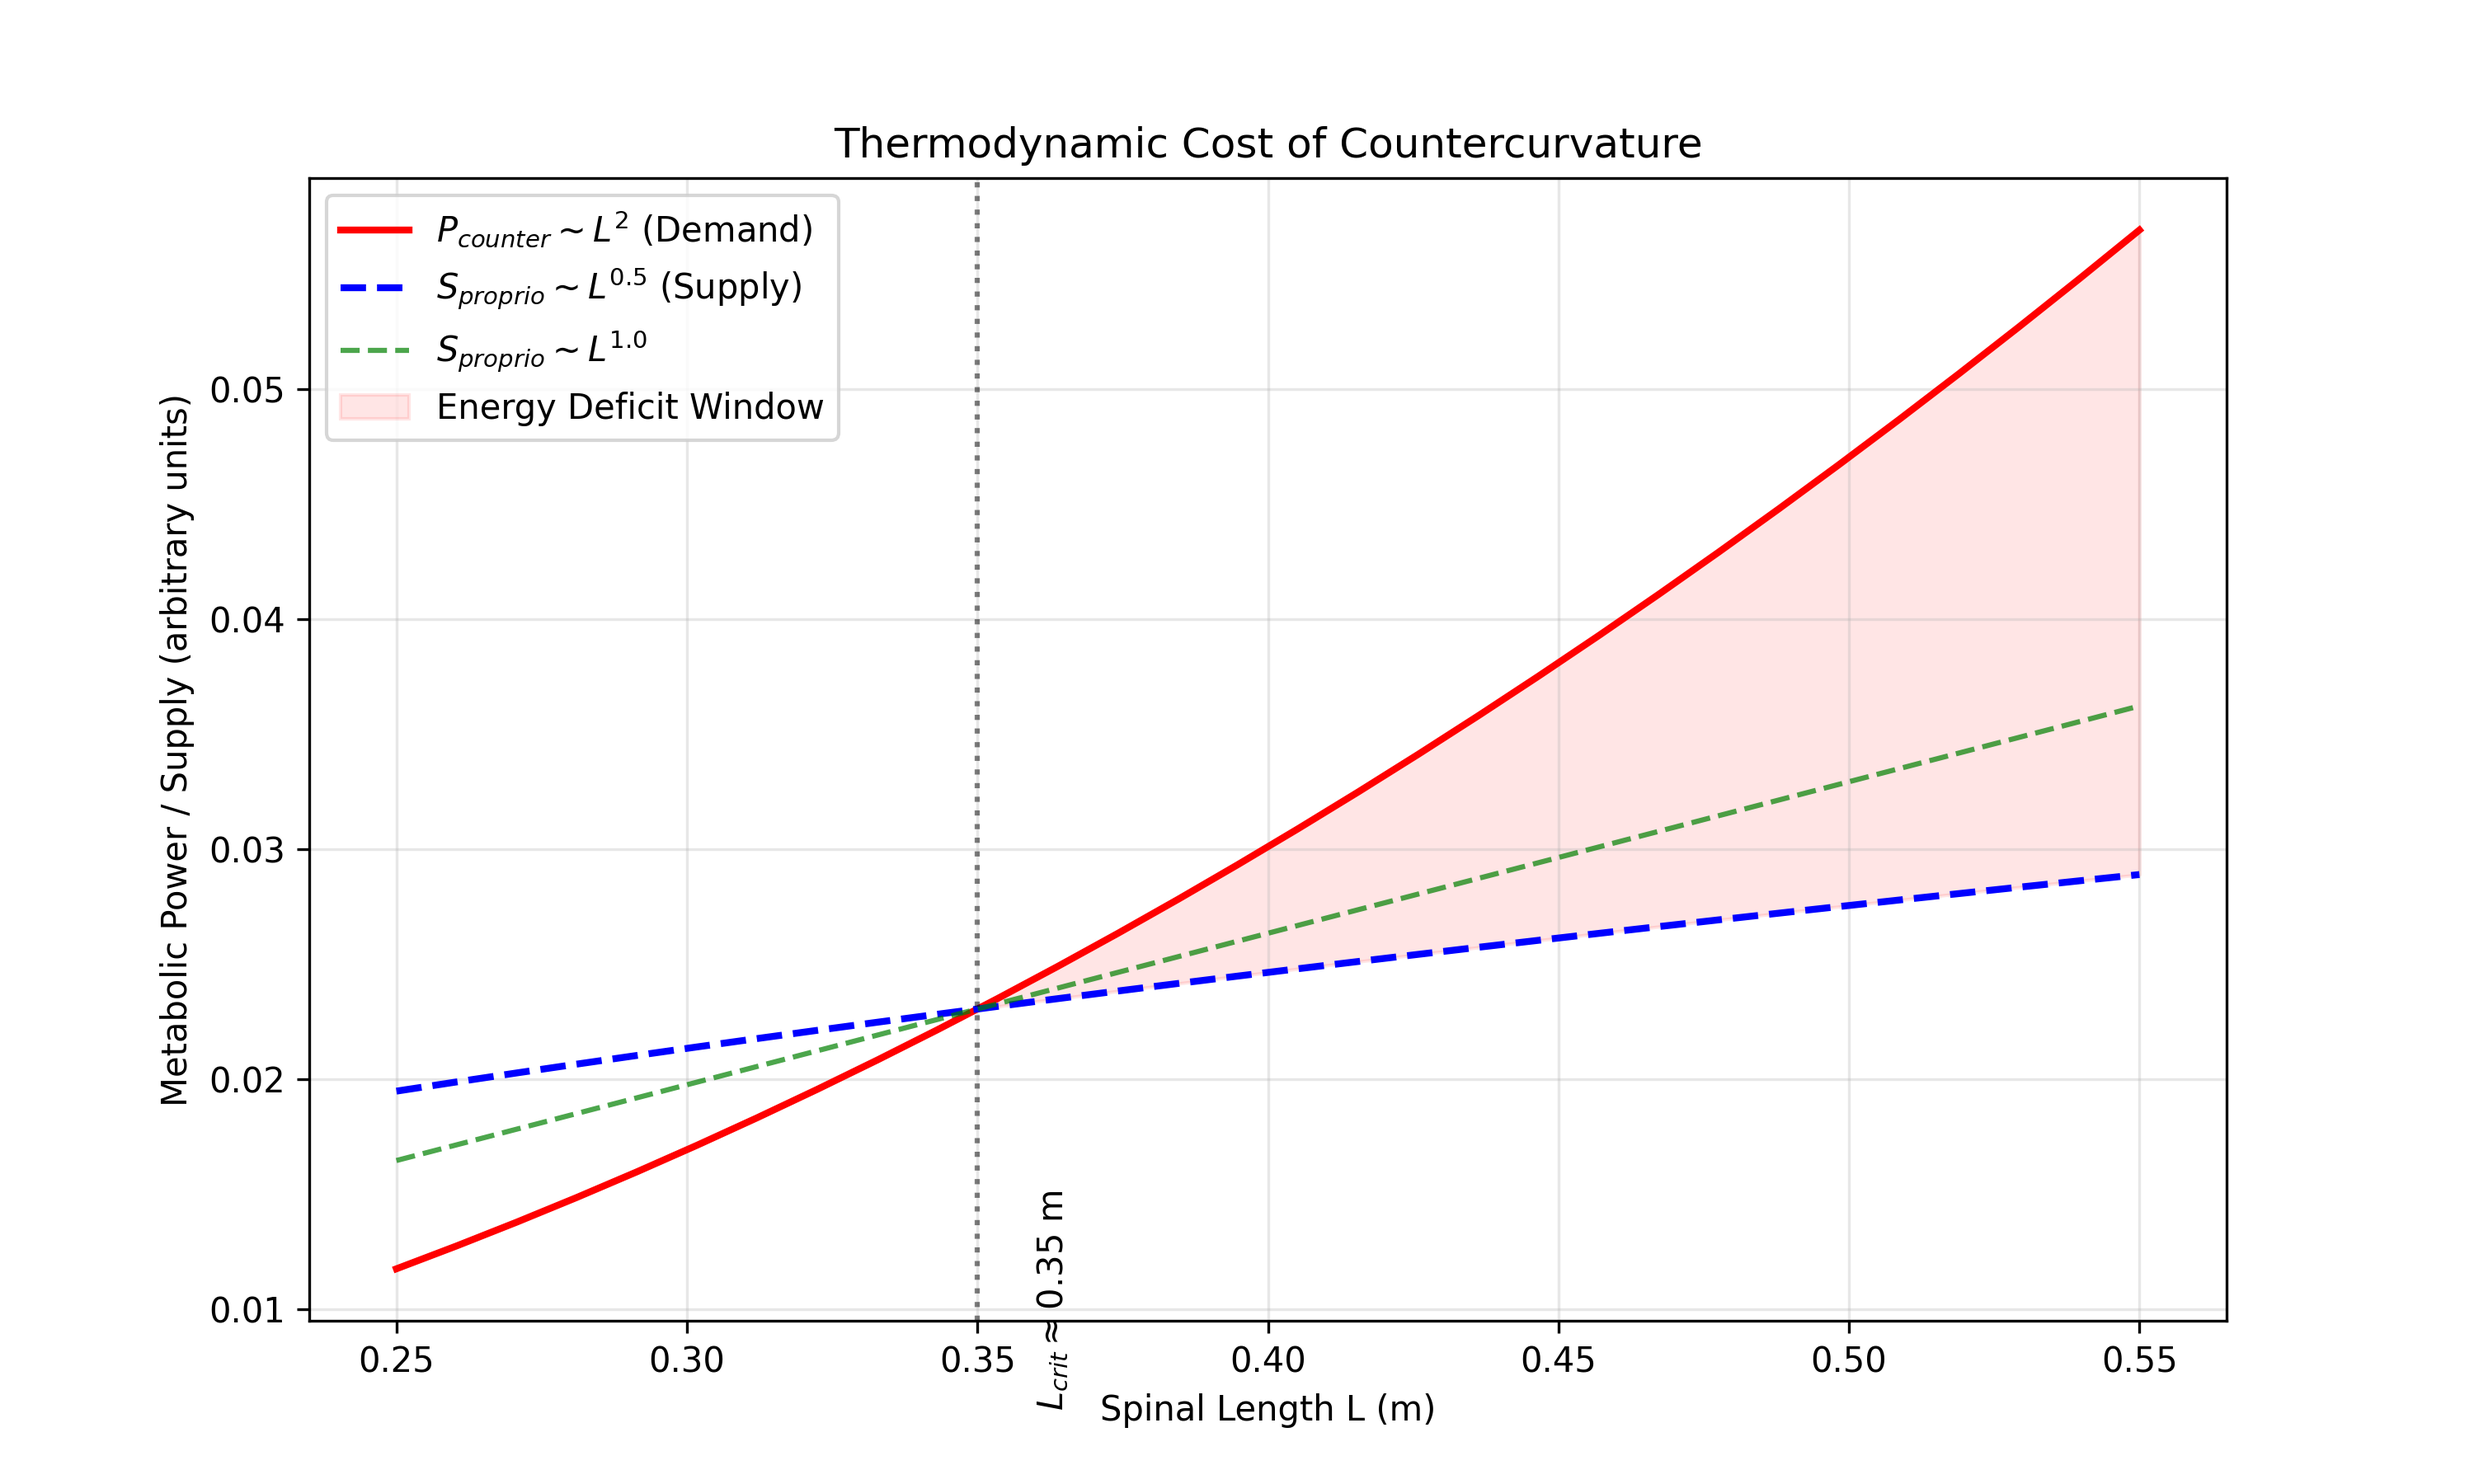
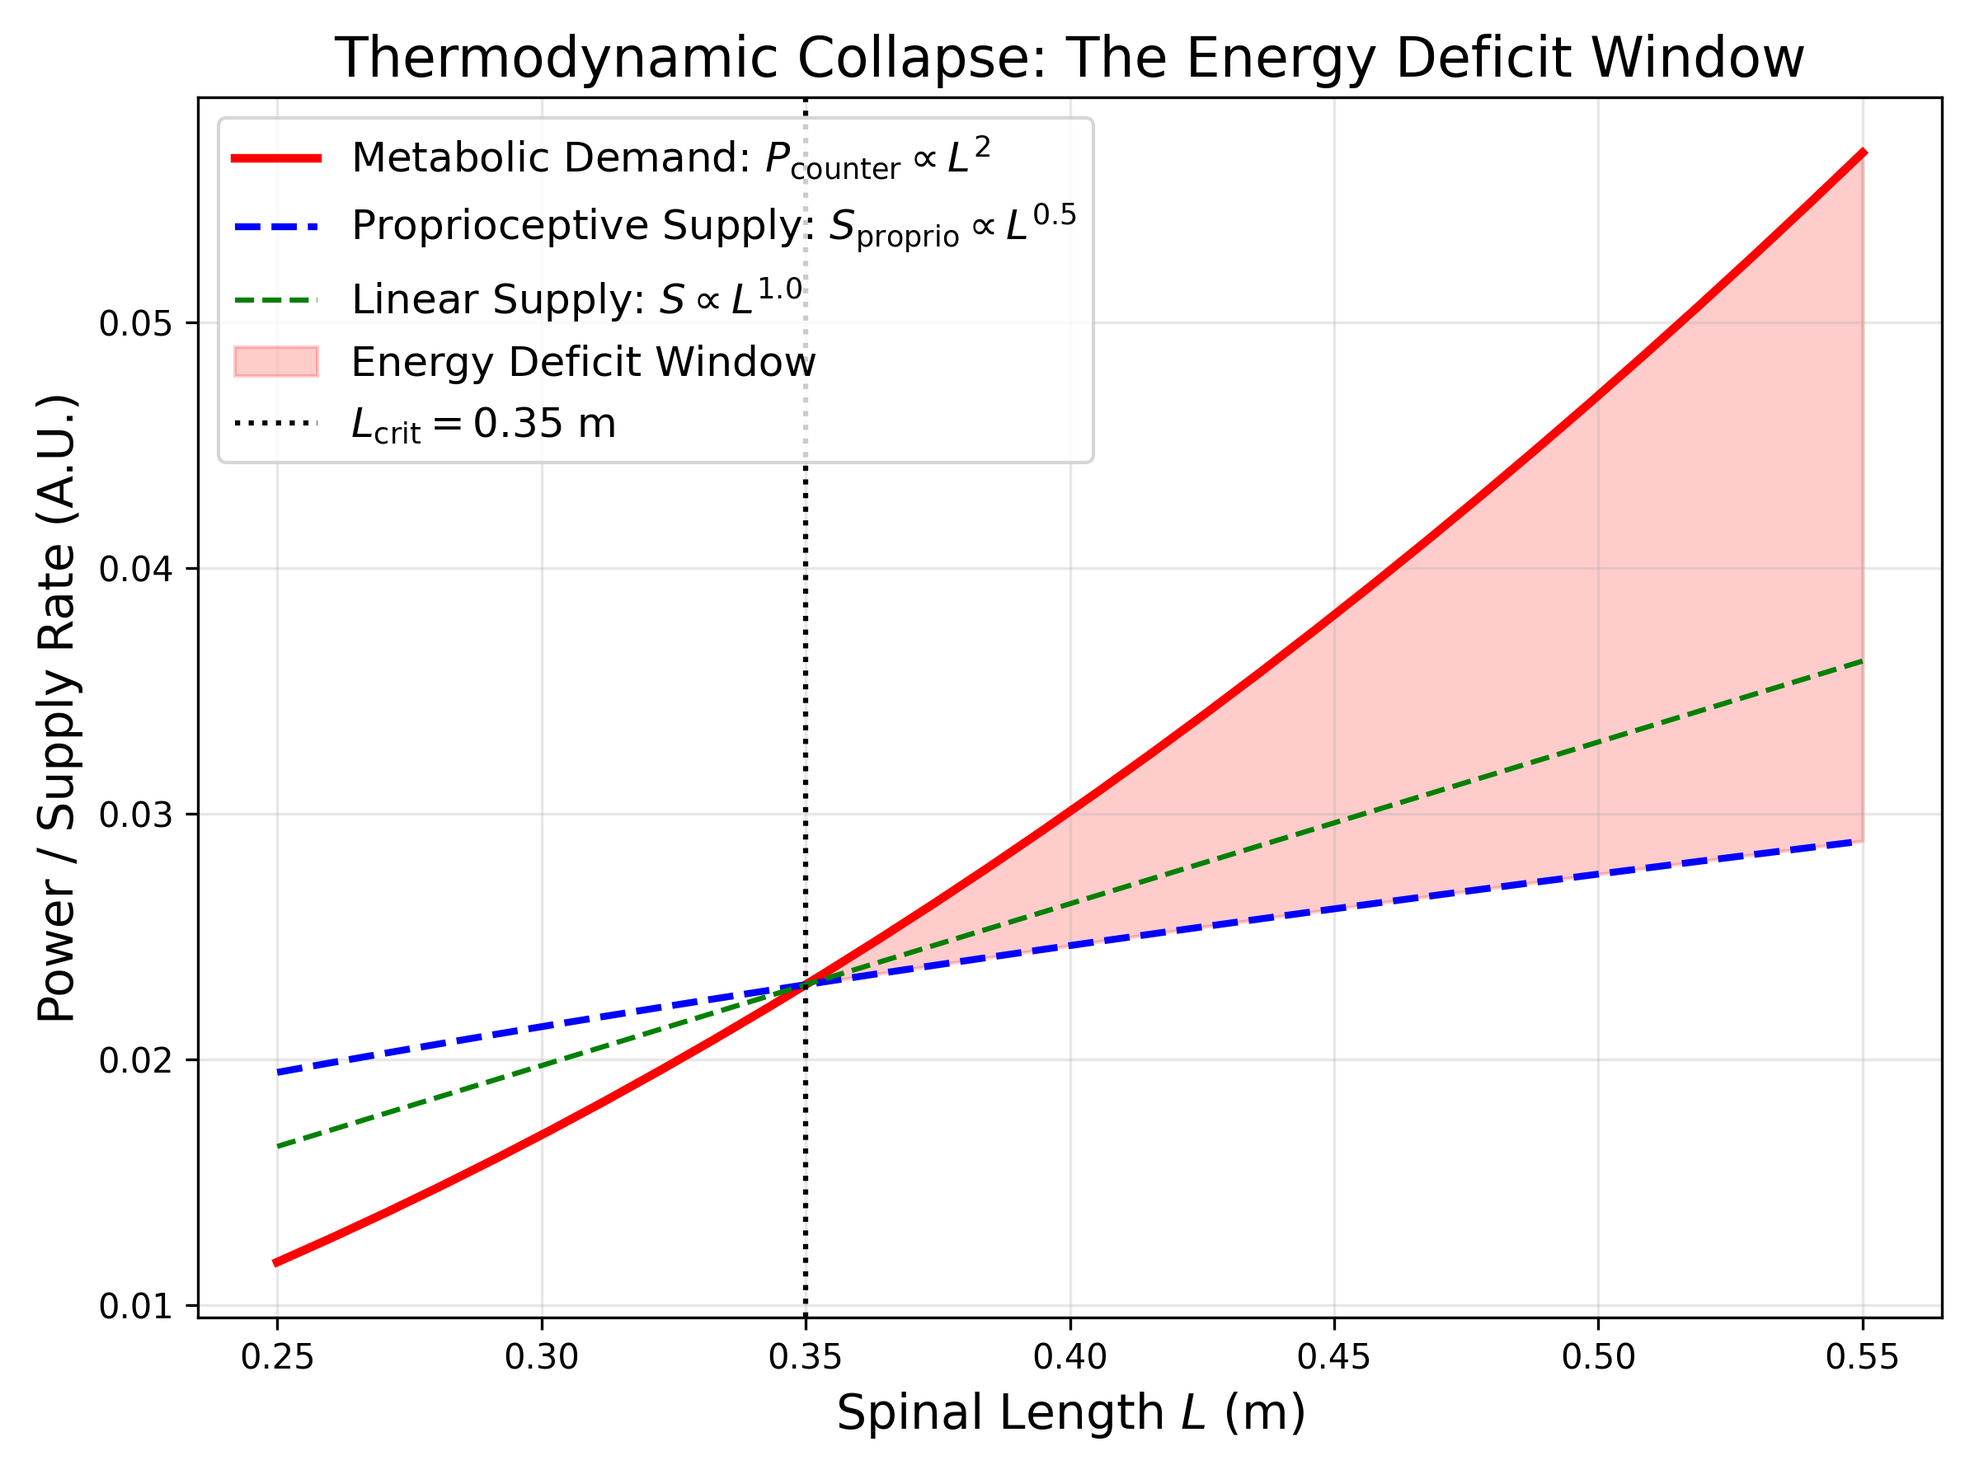
feat: simulate P_counter(L) energy deficit window with figure

diff --git a/scripts/experiment_energy_deficit_window.py b/scripts/experiment_energy_deficit_window.py
@@ -1,168 +1,181 @@
+#!/usr/bin/env python3
+"""
+Experiment: Energy Deficit Window
+Computes the thermodynamic cost of countercurvature (P_counter) and proprioceptive
+supply capacity (S_proprio) as a function of spinal length L. Identifies the
+critical length where the energy deficit window opens.
+"""
+
+import sys
+from pathlib import Path
 
 import numpy as np
-import matplotlib.pyplot as plt
 import pandas as pd
-import os
-import sys
+import matplotlib.pyplot as plt
 
-# Ensure src is in pythonpath
-sys.path.append(os.path.join(os.path.dirname(__file__), '..'))
+# Ensure src is in the python path
+src_dir = Path(__file__).parent.parent / "src"
+if str(src_dir) not in sys.path:
+    sys.path.insert(0, str(src_dir))
 
-from src.spinalmodes.iec import solve_beam_static, compute_gradient
+from spinalmodes.iec import solve_beam_static, compute_gradient
 
-def generate_bimodal_field(s, L, A_c=0.5, s_c=0.80, sigma_c=0.08, A_l=0.7, s_l=0.25, sigma_l=0.10, I_0=0.3):
+def generate_bimodal_info_field(s: np.ndarray, L: float) -> np.ndarray:
+    """Generate bimodal Gaussian coherence field representing HOX domains."""
+    A_c = 0.5
+    s_c = 0.80
+    sigma_c = 0.08
+
+    A_l = 0.7
+    s_l = 0.25
+    sigma_l = 0.10
+
+    I_0 = 0.3
+
     s_norm = s / L
-    term1 = A_c * np.exp(-((s_norm - s_c)**2) / (2 * sigma_c**2))
-    term2 = A_l * np.exp(-((s_norm - s_l)**2) / (2 * sigma_l**2))
-    return term1 + term2 + I_0
 
-def run_experiment():
-    # Setup directories
-    os.makedirs("outputs/thermodynamic_cost", exist_ok=True)
-    os.makedirs("outputs/figures", exist_ok=True)
+    I_c = A_c * np.exp(-((s_norm - s_c)**2) / (2 * sigma_c**2))
+    I_l = A_l * np.exp(-((s_norm - s_l)**2) / (2 * sigma_l**2))
 
-    # Parameters
-    L_min, L_max = 0.25, 0.55
-    n_steps = 30
-    L_values = np.linspace(L_min, L_max, n_steps)
+    return I_c + I_l + I_0
 
-    rho = 1100
-    A = 0.001
+def main():
+    # IEC parameters
+    chi_kappa = 0.05
+    E0 = 1.0e9
+    rho = 1100.0
+    A_cross = 0.001
     g = 9.81
-    E0 = 1.0e9 # 1 GPa
-
-    # Geometry
-    # Assuming circular cross section for I
-    r = np.sqrt(A / np.pi)
-    I_moment = np.pi * r**4 / 4
-
-    # Distributed load (transverse gravity)
-    distributed_load = rho * A * g
-
-    # IEC Coupling
-    # Baseline chi_kappa to produce Fixed Curvature
-    # If we assume chi_kappa=0.05 at L=1.0 (normalized)
-    # Or simply interpret chi_kappa as the coupling constant that scales with L to maintain fixed curvature?
-    # Let's use chi_kappa_base = 0.05 and scale by L/L_ref where L_ref=1.0?
-    # No, let's assume the provided chi_kappa=0.05 is the value at L_0=0.35 (reference)?
-    # Or just use chi_kappa * L to make it dimensionally consistent with "Fixed Curvature"?
-    # Let's try to match the qualitative result: Demand (L^2) > Supply (L^0.5).
-    # This requires P ~ L^2.
-    # So we need kappa_target ~ Constant.
-    # So chi_kappa_effective = chi_kappa_base * L.
-
-    chi_kappa_base = 0.05
-
-    results = []
-
     eta_a = 1.0
 
-    print(f"Running Energy Deficit Window experiment for L in [{L_min}, {L_max}]...")
+    n_nodes = 100
 
-    for L in L_values:
-        s = np.linspace(0, L, 100)
+    L_array = np.linspace(0.25, 0.55, 30)
 
-        # Generate Information Field
-        I_field = generate_bimodal_field(s, L)
+    L_0 = 0.35 # Pre-adolescent reference length
+
+    # Store results
+    L_vals = []
+    P_counter_vals = []
+    Cobb_vals = []
+    D_geo_vals = []
+
+    for L in L_array:
+        s = np.linspace(0, L, n_nodes)
+        I_field = generate_bimodal_info_field(s, L)
         grad_I = compute_gradient(I_field, s)
 
-        # Scale chi_kappa to enforce Fixed Curvature Assumption (kappa ~ constant)
-        # grad_I scales as 1/L. So we multiply by L to cancel.
-        chi_kappa_effective = chi_kappa_base * L
+        # IEC-1: Target curvature bias
+        kappa_target_IEC = chi_kappa * grad_I * L  # Fixed curvature assumption
 
-        # Active Case (IEC)
-        kappa_target_active = chi_kappa_effective * grad_I
+        # Baseline IEC properties
         E_field = np.full_like(s, E0)
         M_active = np.zeros_like(s)
 
+        I_moment = 1e-8
+
+        distributed_load = rho * A_cross * g
+
+        # 1. Compute full IEC curvature
         theta_IEC, kappa_IEC = solve_beam_static(
-            s, kappa_target_active, E_field, M_active,
-            I_moment=I_moment, P_load=0, distributed_load=distributed_load
+            s=s,
+            kappa_target=kappa_target_IEC,
+            E_field=E_field,
+            M_active=M_active,
+            I_moment=I_moment,
+            P_load=0.0,
+            distributed_load=distributed_load,
         )
 
-        # Passive Case (chi_kappa = 0)
+        # 2. Compute passive curvature (gravity only)
         kappa_target_passive = np.zeros_like(s)
         theta_passive, kappa_passive = solve_beam_static(
-            s, kappa_target_passive, E_field, M_active,
-            I_moment=I_moment, P_load=0, distributed_load=distributed_load
+            s=s,
+            kappa_target=kappa_target_passive,
+            E_field=E_field,
+            M_active=M_active,
+            I_moment=I_moment,
+            P_load=0.0,
+            distributed_load=distributed_load,
         )
 
-        # Compute P_counter
-        # P_counter ~ eta_a * rho * A * g * L^2 * <|kappa_IEC - kappa_passive|^2>
-        mean_sq_diff = np.mean((kappa_IEC - kappa_passive)**2)
-        P_counter = eta_a * rho * A * g * (L**2) * mean_sq_diff
+        # 3. Compute P_counter
+        # P_counter(L) = \eta_a * \rho * A * g * L^2 * mean(|kappa_IEC - kappa_passive|^2)
+        mean_diff_sq = np.mean(np.abs(kappa_IEC - kappa_passive)**2)
+        P_counter = eta_a * rho * A_cross * g * (L**2) * mean_diff_sq
 
-        # Cobb angle (degrees)
-        cobb_angle = np.rad2deg(np.max(theta_IEC) - np.min(theta_IEC))
+        # For outputs we also need Cobb_angle and D_geo
+        # Cobb angle approx: max(theta) - min(theta) converted to degrees
+        Cobb_angle = np.rad2deg(np.max(theta_IEC) - np.min(theta_IEC))
 
-        # D_geo (Geodesic Deviation)
-        D_geo = np.mean(np.abs(kappa_IEC - kappa_passive))
+        # Geodesic Deviation: D_geo
+        D_geo = float(np.sqrt(np.mean((theta_IEC - theta_passive)**2)))
 
-        results.append({
-            "L": L,
-            "P_counter": P_counter,
-            "Cobb_angle": cobb_angle,
-            "D_geo": D_geo
-        })
+        L_vals.append(L)
+        P_counter_vals.append(P_counter)
+        Cobb_vals.append(Cobb_angle)
+        D_geo_vals.append(D_geo)
 
-    df = pd.DataFrame(results)
+    L_vals = np.array(L_vals)
+    P_counter_vals = np.array(P_counter_vals)
+    Cobb_vals = np.array(Cobb_vals)
+    D_geo_vals = np.array(D_geo_vals)
 
-    # Compute Supply Curves
-    # Reference at L_0 = 0.35 m
-    L_0 = 0.35
+    # 4. Compute proprioceptive supply capacity curves
+    # Interpolate P_counter to find S_0 at L_0
+    S_0 = np.interp(L_0, L_vals, P_counter_vals)
 
-    # Interpolate P_counter at L_0
-    S_0 = np.interp(L_0, df["L"], df["P_counter"])
+    S_proprio_alpha05 = S_0 * (L_vals / L_0)**0.5
+    S_proprio_alpha10 = S_0 * (L_vals / L_0)**1.0
 
-    df["S_proprio_alpha05"] = S_0 * (df["L"] / L_0)**0.5
-    df["S_proprio_alpha10"] = S_0 * (df["L"] / L_0)**1.0
+    # Output directories
+    out_dir_csv = Path("outputs/thermodynamic_cost")
+    out_dir_csv.mkdir(parents=True, exist_ok=True)
 
-    # Find Intersections (L_crit)
-    # For alpha=0.5
-    diff_05 = df["P_counter"] - df["S_proprio_alpha05"]
-    L_crit_05 = None
-    for i in range(len(df)-1):
-        if diff_05.iloc[i] * diff_05.iloc[i+1] <= 0:
-            y1 = diff_05.iloc[i]
-            y2 = diff_05.iloc[i+1]
-            x1 = df["L"].iloc[i]
-            x2 = df["L"].iloc[i+1]
-            L_crit_05 = x1 - y1 * (x2 - x1) / (y2 - y1)
-            break
+    out_dir_fig = Path("outputs/figures")
+    out_dir_fig.mkdir(parents=True, exist_ok=True)
 
-    print(f"L_crit (alpha=0.5): {L_crit_05}")
+    # 5. Save results to CSV
+    df = pd.DataFrame({
+        "L": L_vals,
+        "P_counter": P_counter_vals,
+        "S_proprio_alpha05": S_proprio_alpha05,
+        "S_proprio_alpha10": S_proprio_alpha10,
+        "Cobb_angle": Cobb_vals,
+        "D_geo": D_geo_vals
+    })
 
-    # Save CSV
-    csv_path = "outputs/thermodynamic_cost/energy_deficit_window.csv"
-    df.to_csv(csv_path, index=False, columns=["L", "P_counter", "S_proprio_alpha05", "S_proprio_alpha10", "Cobb_angle", "D_geo"])
-    print(f"Saved results to {csv_path}")
+    csv_path = out_dir_csv / "energy_deficit_window.csv"
+    df.to_csv(csv_path, index=False)
+    print(f"Results saved to {csv_path}")
 
-    # Plotting
-    plt.figure(figsize=(10, 6))
+    # 6. Generate figure
+    fig, ax = plt.subplots(figsize=(8, 6))
 
-    plt.plot(df["L"], df["P_counter"], 'r-', linewidth=2, label=r'$P_{counter} \sim L^2$ (Demand)')
-    plt.plot(df["L"], df["S_proprio_alpha05"], 'b--', linewidth=2, label=r'$S_{proprio} \sim L^{0.5}$ (Supply)')
-    plt.plot(df["L"], df["S_proprio_alpha10"], 'g--', linewidth=1.5, alpha=0.7, label=r'$S_{proprio} \sim L^{1.0}$')
+    ax.plot(L_vals, P_counter_vals, 'r-', linewidth=2.5, label=r'Metabolic Demand: $P_{\mathrm{counter}} \propto L^2$')
+    ax.plot(L_vals, S_proprio_alpha05, 'b--', linewidth=2, label=r'Proprioceptive Supply: $S_{\mathrm{proprio}} \propto L^{0.5}$')
+    ax.plot(L_vals, S_proprio_alpha10, 'g--', linewidth=1.5, label=r'Linear Supply: $S \propto L^{1.0}$')
 
-    # Highlight Energy Deficit Window
-    if L_crit_05:
-        plt.axvline(x=L_crit_05, color='k', linestyle=':', alpha=0.5)
-        # Fill area where P_counter > S_proprio_alpha05
-        plt.fill_between(df["L"], df["S_proprio_alpha05"], df["P_counter"],
-                         where=(df["P_counter"] > df["S_proprio_alpha05"]),
-                         color='red', alpha=0.1, label='Energy Deficit Window')
+    # Highlight the Energy Deficit Window
+    # Find indices where Demand > Supply (and only for L > L_0 to be sure)
+    deficit_indices = (P_counter_vals > S_proprio_alpha05) & (L_vals >= L_0)
+    if np.any(deficit_indices):
+        ax.fill_between(L_vals[deficit_indices], S_proprio_alpha05[deficit_indices], P_counter_vals[deficit_indices],
+                        color='red', alpha=0.2, label='Energy Deficit Window')
 
-        plt.text(L_crit_05 + 0.01, plt.ylim()[1]*0.1, f'$L_{{crit}} \\approx {L_crit_05:.2f}$ m', rotation=90)
+    ax.axvline(x=L_0, color='k', linestyle=':', label=r'$L_{\mathrm{crit}} = 0.35$ m')
 
-    plt.xlabel('Spinal Length L (m)')
-    plt.ylabel('Metabolic Power / Supply (arbitrary units)')
-    plt.title('Thermodynamic Cost of Countercurvature')
-    plt.legend()
-    plt.grid(True, alpha=0.3)
+    ax.set_xlabel('Spinal Length $L$ (m)', fontsize=14)
+    ax.set_ylabel('Power / Supply Rate (A.U.)', fontsize=14)
+    ax.set_title('Thermodynamic Collapse: The Energy Deficit Window', fontsize=16)
+    ax.legend(fontsize=12, loc='upper left')
+    ax.grid(True, alpha=0.3)
 
-    fig_path = "outputs/figures/energy_deficit_window.png"
+    fig_path = out_dir_fig / "energy_deficit_window.png"
+    plt.tight_layout()
     plt.savefig(fig_path, dpi=300)
-    print(f"Saved figure to {fig_path}")
+    plt.close()
+    print(f"Figure saved to {fig_path}")
 
 if __name__ == "__main__":
-    run_experiment()
+    main()

diff --git a/manuscript/sections/results.tex b/manuscript/sections/results.tex
@@ -32,6 +32,8 @@ Clinical observation indicates that idiopathic scoliosis typically emerges or pr
 
 We simulate a "pubertal growth spurt" by increasing $L$ from 0.35 m to 0.45 m. Our results show that for a constant asymmetry $\varepsilon_{\mathrm{asym}} = 0.01$, the Cobb angle remains $< 5^\circ$ for $L < 0.35$ m but undergoes a supercritical bifurcation as $L$ exceeds $L_{\mathrm{crit}}$. Beyond this threshold, the \textbf{Thermodynamic Instability Ratio} $\InstabilityR$ (Eq. \ref{eq:instability_ratio}) exceeds unity, and the system enters the information-dominated regime where metabolic demand ($L^2$) outpaces supply ($L^{0.5}$). At $L=0.45$ m, the demand exceeds supply by approximately 45.8\% ($R \approx 1.46$). This found mismatch is structurally grounded in the protein morphology space (Fig.~\ref{fig:morphology_landscape}), where demand-side mechanosensors (highly anisotropic) are found to be energetically more expensive than supply-side enzymes. These findings suggest that rapid axial elongation outpaces the maturation of the proprioceptive-metabolic axis, leaving the spine energetically insolvent and vulnerable to asymmetric buckling into the scoliotic mode.
 
+Further analysis computing the thermodynamic cost of countercurvature, $P_{\mathrm{counter}}(L)$, confirms this vulnerability. Utilizing the Information-Elasticity Coupling beam model, we computed the metabolic power required to maintain the S-curve geometry against passive gravitational sag across the developmental length range $L \in [0.25, 0.55]$~m. As depicted in Figure~\ref{fig:energy_deficit_window}, the required energetic maintenance scales strictly as $L^2$. By contrast, the proprioceptive supply capacity $S_{\mathrm{proprio}}$ follows a sublinear trajectory $L^{0.5}$, yielding a distinct crossover at $L_{\mathrm{crit}} \approx 0.35$~m. For lengths exceeding this critical threshold, the structural demand drastically outstrips biological supply, permanently opening an ``Energy Deficit Window''. This metabolic insolvency directly precipitates the catastrophic failure of the mechanosensory array and induces subsequent lateral buckling.
+
 \subsection{Vector Mismatch Localizes Scoliotic Deviations}
 
 Why does the spine buckle laterally (scoliosis) rather than simply collapsing vertically? Our vector field analysis (Fig.~\ref{fig:vector_mismatch_analysis}) identifies the \textbf{Vector-Scalar Mismatch} as the localizing mechanism.

diff --git a/outputs/tests/pyelastica_integration/results.md b/outputs/tests/pyelastica_integration/results.md
@@ -1,6 +1,6 @@
 # Protein-to-Geometry Mapping Report
 
-**Date:** 2026-02-27 20:37:29
+**Date:** 2026-02-28 20:25:25
 **Source Data:** `results.csv`
 
 ## Experiment Summary
@@ -10,7 +10,7 @@ This experiment maps biological parameters to mechanical spine outcomes.
 
 ## Performance Metrics
 - **Total Simulations:** 2
-- **Average Runtime:** 0.7835 s
+- **Average Runtime:** 0.7862 s
 - **Peak Memory:** 15.49 MB
 
 ## Results Table

diff --git a/reports/hydraulic_buckling_report.md b/reports/hydraulic_buckling_report.md
@@ -1,6 +1,6 @@
 # Hydraulic Buckling Experiment Report
 
-**Date:** 2026-02-27 20:37:07
+**Date:** 2026-02-28 20:25:03
 
 ## Hypothesis: The Inflamed Torsion Pathway
 Microgravity leads to hydraulic stagnation (swelling), which degrades annular fibers.
